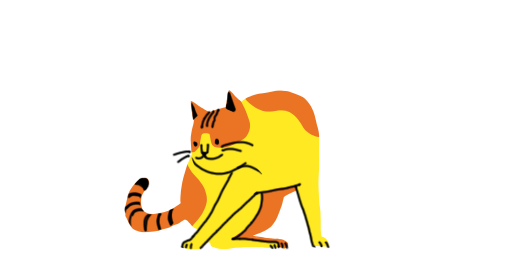
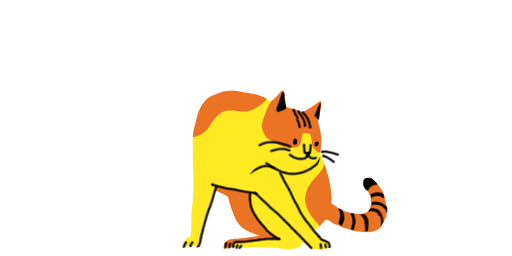
splash screen and game over

Changed region(s): [[0.2188, 0.3438, 0.7812, 1.0]]

diff --git a/yp.js b/yp.js
@@ -13,6 +13,7 @@ var g = hexi(SCREEN_W, SCREEN_H, setup, [
   'data/human3.png',
   'data/human4.png',
   'data/human5.png',
+  'data/human6.png',
   'data/bg.png',
   'data/fence.png',
   'data/hat.png',
@@ -31,6 +32,11 @@ var g = hexi(SCREEN_W, SCREEN_H, setup, [
   'data/cat_0012_stop1.png',
   'data/cat_0013_stop2.png',
   'data/cat_0014_prep.png',
+  'data/splash.png',
+  'data/score.png',
+  'data/rank.png',
+  'data/time_bar1.png',
+  'data/time_bar2.png',
 ]);
 
 g.start();
@@ -48,6 +54,7 @@ var score = [0, 0];
 var bkgd;
 var fence;
 var people = [];
+var splash_screen;
 
 function setup() {
   pointer = t.makePointer();
@@ -64,32 +71,30 @@ function setup() {
 
   createScore();
 
-  g.state = play;
+  splash_screen = g.sprite('data/splash.png');
+  splash_screen.x = 0;
+  splash_screen.y = 0;
+  splash_screen.scale.x = splash_screen.scale.y = (1080 / 512);
+
+  g.state = splash;
 }
 
-function highScore() {
-  //window.location.replace("highscore.html");
+var popup = false;
 
+function highScore() {
   var mapForm = document.createElement("form");
   mapForm.target = "_blank";
   mapForm.method = "POST";
   mapForm.action = "highscore.php";
 
-  // Create an input
   var mapInput = document.createElement("input");
   mapInput.type = "text";
   mapInput.name = "score";
   mapInput.value = score[0] + score[1];
 
-  // Add the input to the form
   mapForm.appendChild(mapInput);
-
-  // Add the form to dom
   document.body.appendChild(mapForm);
-
-  // Just submit
   mapForm.submit();
-
 }
 
 function buttonClickHandler(event) {
@@ -99,6 +104,20 @@ function buttonClickHandler(event) {
 var mouse_down;
 const MOUSE_JUMP_LINE = SCREEN_H - 250;
 var mouse_below_line;
+
+function splash() {
+  if (pointer.isDown) {
+    mouse_down = true;
+  }
+
+  if (rupert_playing || carl_playing || pointer.isUp && mouse_down) {
+    splash_screen.visible = false;
+    g.state = play;
+  }
+}
+
+var rupert_playing = false;
+var carl_playing = false;
 
 function play() {
   t.update();
@@ -110,6 +129,11 @@ function play() {
   }
 
   if (pointer.isDown) {
+
+    if (!rupert_playing) {
+      rupert_playing = true;
+    }
+
     mouse_down = true;
     let delta_p = rupert.x - pointer.x;
     let abs_delta_p = Math.abs(delta_p);
@@ -127,10 +151,16 @@ function play() {
     }
   }
 
-  rupert.update();
-  carl.update();
+  if (rupert_playing) {
+    rupert.update();
+  }
+
+  if (carl_playing) {
+    carl.update();
+  }
 
   updateScore();
+  updateTime();
 
   for (let i = 0; i < people.length; i++) {
     people[i].update();
@@ -138,9 +168,27 @@ function play() {
 
 }
 
+function gameover() {
+  var game_over = g.sprite('data/rank.png');
+
+  game_over.x = SCREEN_W / 2;
+  game_over.y = SCREEN_H / 2;
+  game_over.anchor.set(0.5, 0.5);
+
+  if (pointer.isDown) {
+    mouse_down = true;
+  }
+
+  if (pointer.isUp && mouse_down && !popup) {
+    console.log("popup");
+    popup = true;
+    highScore();
+  }
+}
+
 function createStage() {
-  bkgd = g.sprite('data/bg.png', 1024, 512);
-  fence = g.sprite('data/fence.png', 1920, 86);
+  bkgd = g.sprite('data/bg.png');
+  fence = g.sprite('data/fence.png');
 
   g.stage.addChild(bkgd);
   bkgd.x = 0;
@@ -156,14 +204,62 @@ function createStage() {
   fence.y = SCREEN_H - 86;
 }
 
+var score_bg1;
+var score_bg2;
+var time_bar_bg;
+var time_bar;
+const MAX_TIME = 60;
+var timer = MAX_TIME;
+
 function createScore() {
-  score_display1 = g.text("score", "40px sans", "black", SCREEN_W / 2, 100);
-  score_display2 = g.text("score", "40px sans", "black", SCREEN_W / 2, 200);
+  time_bar_bg = g.sprite('data/time_bar1.png');
+  time_bar = g.sprite('data/time_bar2.png', 0, 0, true, 900, 60, 900, 60);
+  time_bar_bg.x = SCREEN_W / 2 - 450;
+  time_bar_bg.y = 80;
+  time_bar.x = SCREEN_W / 2 - 450;
+  time_bar.y = 80;
+  time_bar_bg.anchor.set(0, 0.5);
+  time_bar.anchor.set(0, 0.5);
+}
+
+function updateTime() {
+  timer -= (1 / 60);
+  console.log(timer);
+  time_bar.width = 900 * (timer / MAX_TIME);
+  if (timer <= 0) {
+    mouse_down = false;
+    g.state = gameover;
+  }
 }
 
 function updateScore() {
-  score_display1.content = "rupert: " + score[0];
-  score_display2.content = "carl: " + score[1];
+  if (rupert_playing) {
+    if (!score_bg1) {
+      score_bg1 = g.sprite('data/score.png');
+      score_bg1.anchor.set(0.5, 0.5);
+      score_bg1.x = 260;
+      score_bg1.y = 80;
+      score_display1 = g.text("score", "40px sans", "black", SCREEN_W / 2, 100);
+      score_display1.x = 260;
+      score_display1.y = 80;
+      score_display1.anchor.set(0.5, 0.5);
+    }
+    score_display1.content = "RUPERT " + score[0];
+  }
+
+  if (carl_playing) {
+    if (!score_bg2) {
+      score_bg2 = g.sprite('data/score.png');
+      score_bg2.anchor.set(0.5, 0.5);
+      score_bg2.x = SCREEN_W - 260;
+      score_bg2.y = 80;
+      score_display2 = g.text("score", "40px sans", "black", SCREEN_W / 2, 200);
+      score_display2.x = SCREEN_W - 260;
+      score_display2.y = 80;
+      score_display2.anchor.set(0.5, 0.5);
+    }
+    score_display2.content = "CARL " + score[1];
+  }
 }
 
 let human_id = 0;
@@ -172,7 +268,7 @@ class Human {
   constructor() {
     // image
     this.id = human_id++;
-    let human_int = 1 + this.id % 5; // change this number when more humans added
+    let human_int = 1 + this.id % 6; // change this number when more humans added
     this.sprite = g.sprite('data/human' + human_int + '.png', 256, 512);
 
     this.sprite.anchor.set(0.5, 0);
@@ -301,18 +397,18 @@ const CAT_ANIM_TURN = 3;
 const CAT_ANIM_STOP = 4;
 const CAT_ANIM_PREP = 5;
 const CAT_ANIM_END = 6;
-const CAT_ANIM_RANGE = [ 0, 1, 7, 11, 12, 14, 15 ]
+const CAT_ANIM_RANGE = [0, 1, 7, 11, 12, 14, 15]
 
-const ANIM_TURN_DURATION = 6;
+const ANIM_TURN_DURATION = 8;
 
 class Cat {
   constructor(id) {
     this.id = id;
     // image
     if (id == 0) {
-      this.x = 200;
+      this.x = SCREEN_W / 2 - 200;
     } else if (id == 1) {
-      this.x = SCREEN_W - 200;
+      this.x = SCREEN_W / 2 + 200;
     }
 
     this.anim = g.sprite([
@@ -341,10 +437,10 @@ class Cat {
     g.stage.addChild(this.anim);
 
     // location
-    this.y = FENCE_H;
+    this.y = -256;
     this.speed_x = 0;
     this.speed_y = 0;
-    this.state = 'ground';
+    this.state = 'fall';
     this.human = -1;
     this.direction = 0;
     this.scale = 1;
@@ -386,6 +482,14 @@ class Cat {
     }
   }
 
+  spawn() {
+    if (this.id == 0 && !rupert_playing) {
+      rupert_playing = true;
+    } else if (this.id == 1 && !carl_playing) {
+      carl_playing = true;
+    }
+  }
+
   setDirection(distance) {
     if (distance < 0) {
       this.scale = -1;
@@ -393,6 +497,7 @@ class Cat {
       this.scale = 1;
     }
     this.direction = distance;
+    this.spawn();
   }
 
   jump() {
@@ -404,6 +509,7 @@ class Cat {
       this.state = 'jump';
       this.speed_y -= 45;
     }
+    this.spawn();
   }
 
   gravity() {
